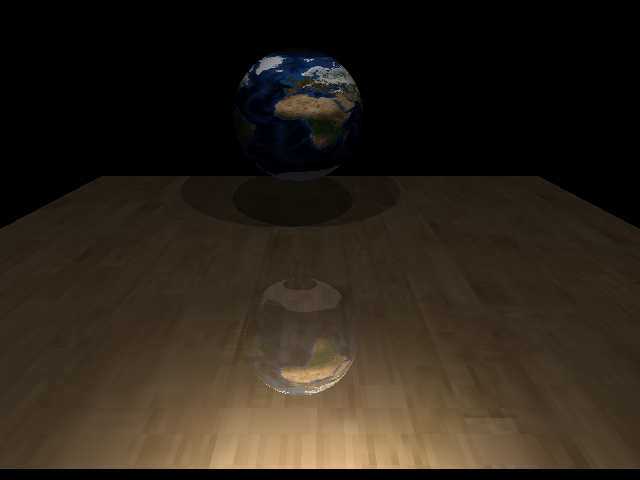
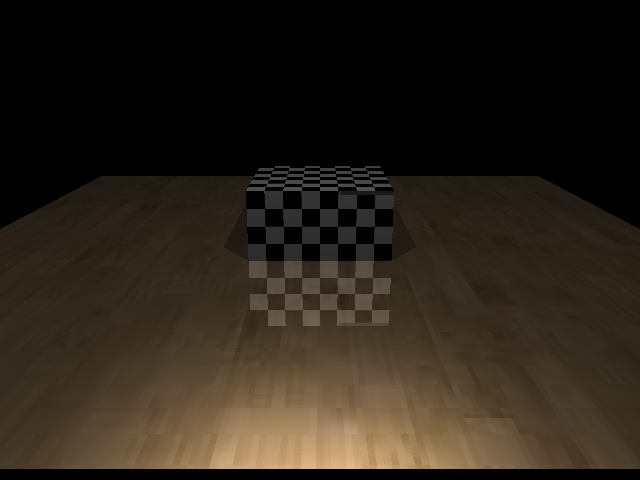
Opened general texture for model feature

Changed region(s): [[0.375, 0.3438, 0.625, 0.8438], [0.375, 0.0938, 0.5625, 0.3125]]

diff --git a/src/SceneParser.cpp b/src/SceneParser.cpp
@@ -502,6 +502,9 @@ SceneParser::handleGeometryCommand(stringstream& s, string& cmd)
 		model->diffuse() = diffuse;
 		model->specular() = specular;
 		model->shininess() = shininess;
+		if (textureIsBound) {
+			model->setTexture(boundTexture);
+		}
 		scene->addObject(model);
 	}
 }
